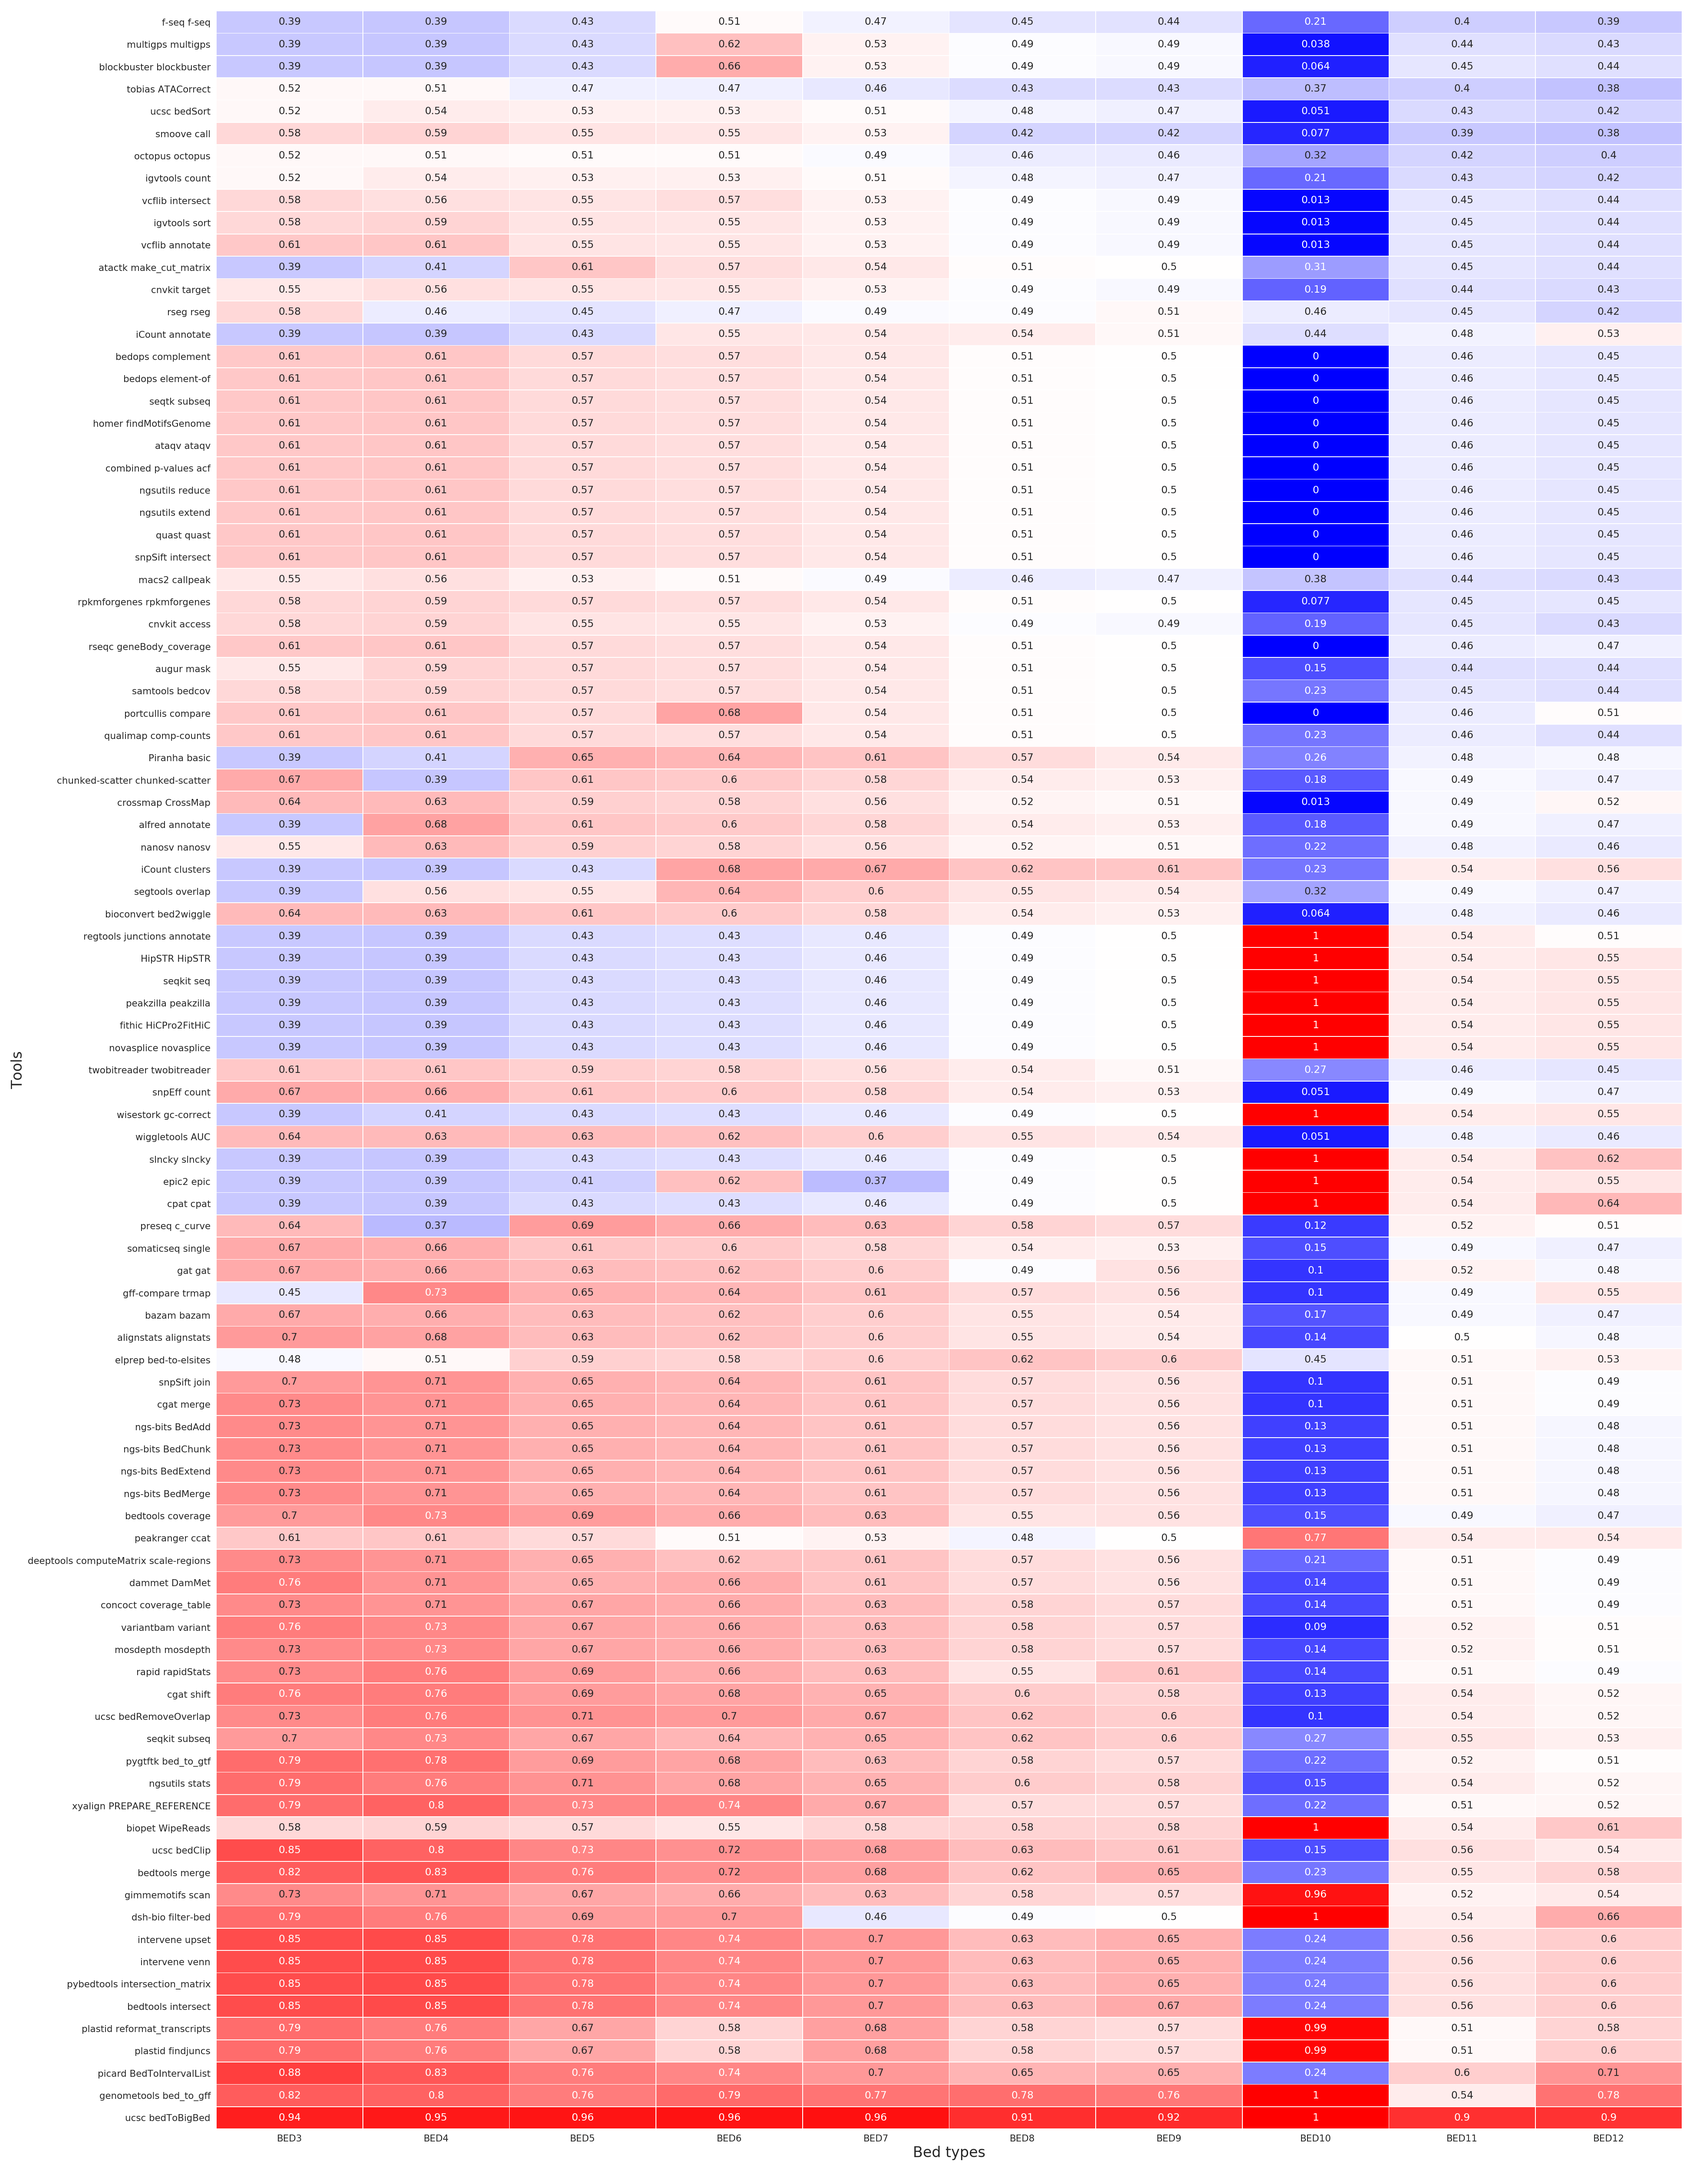
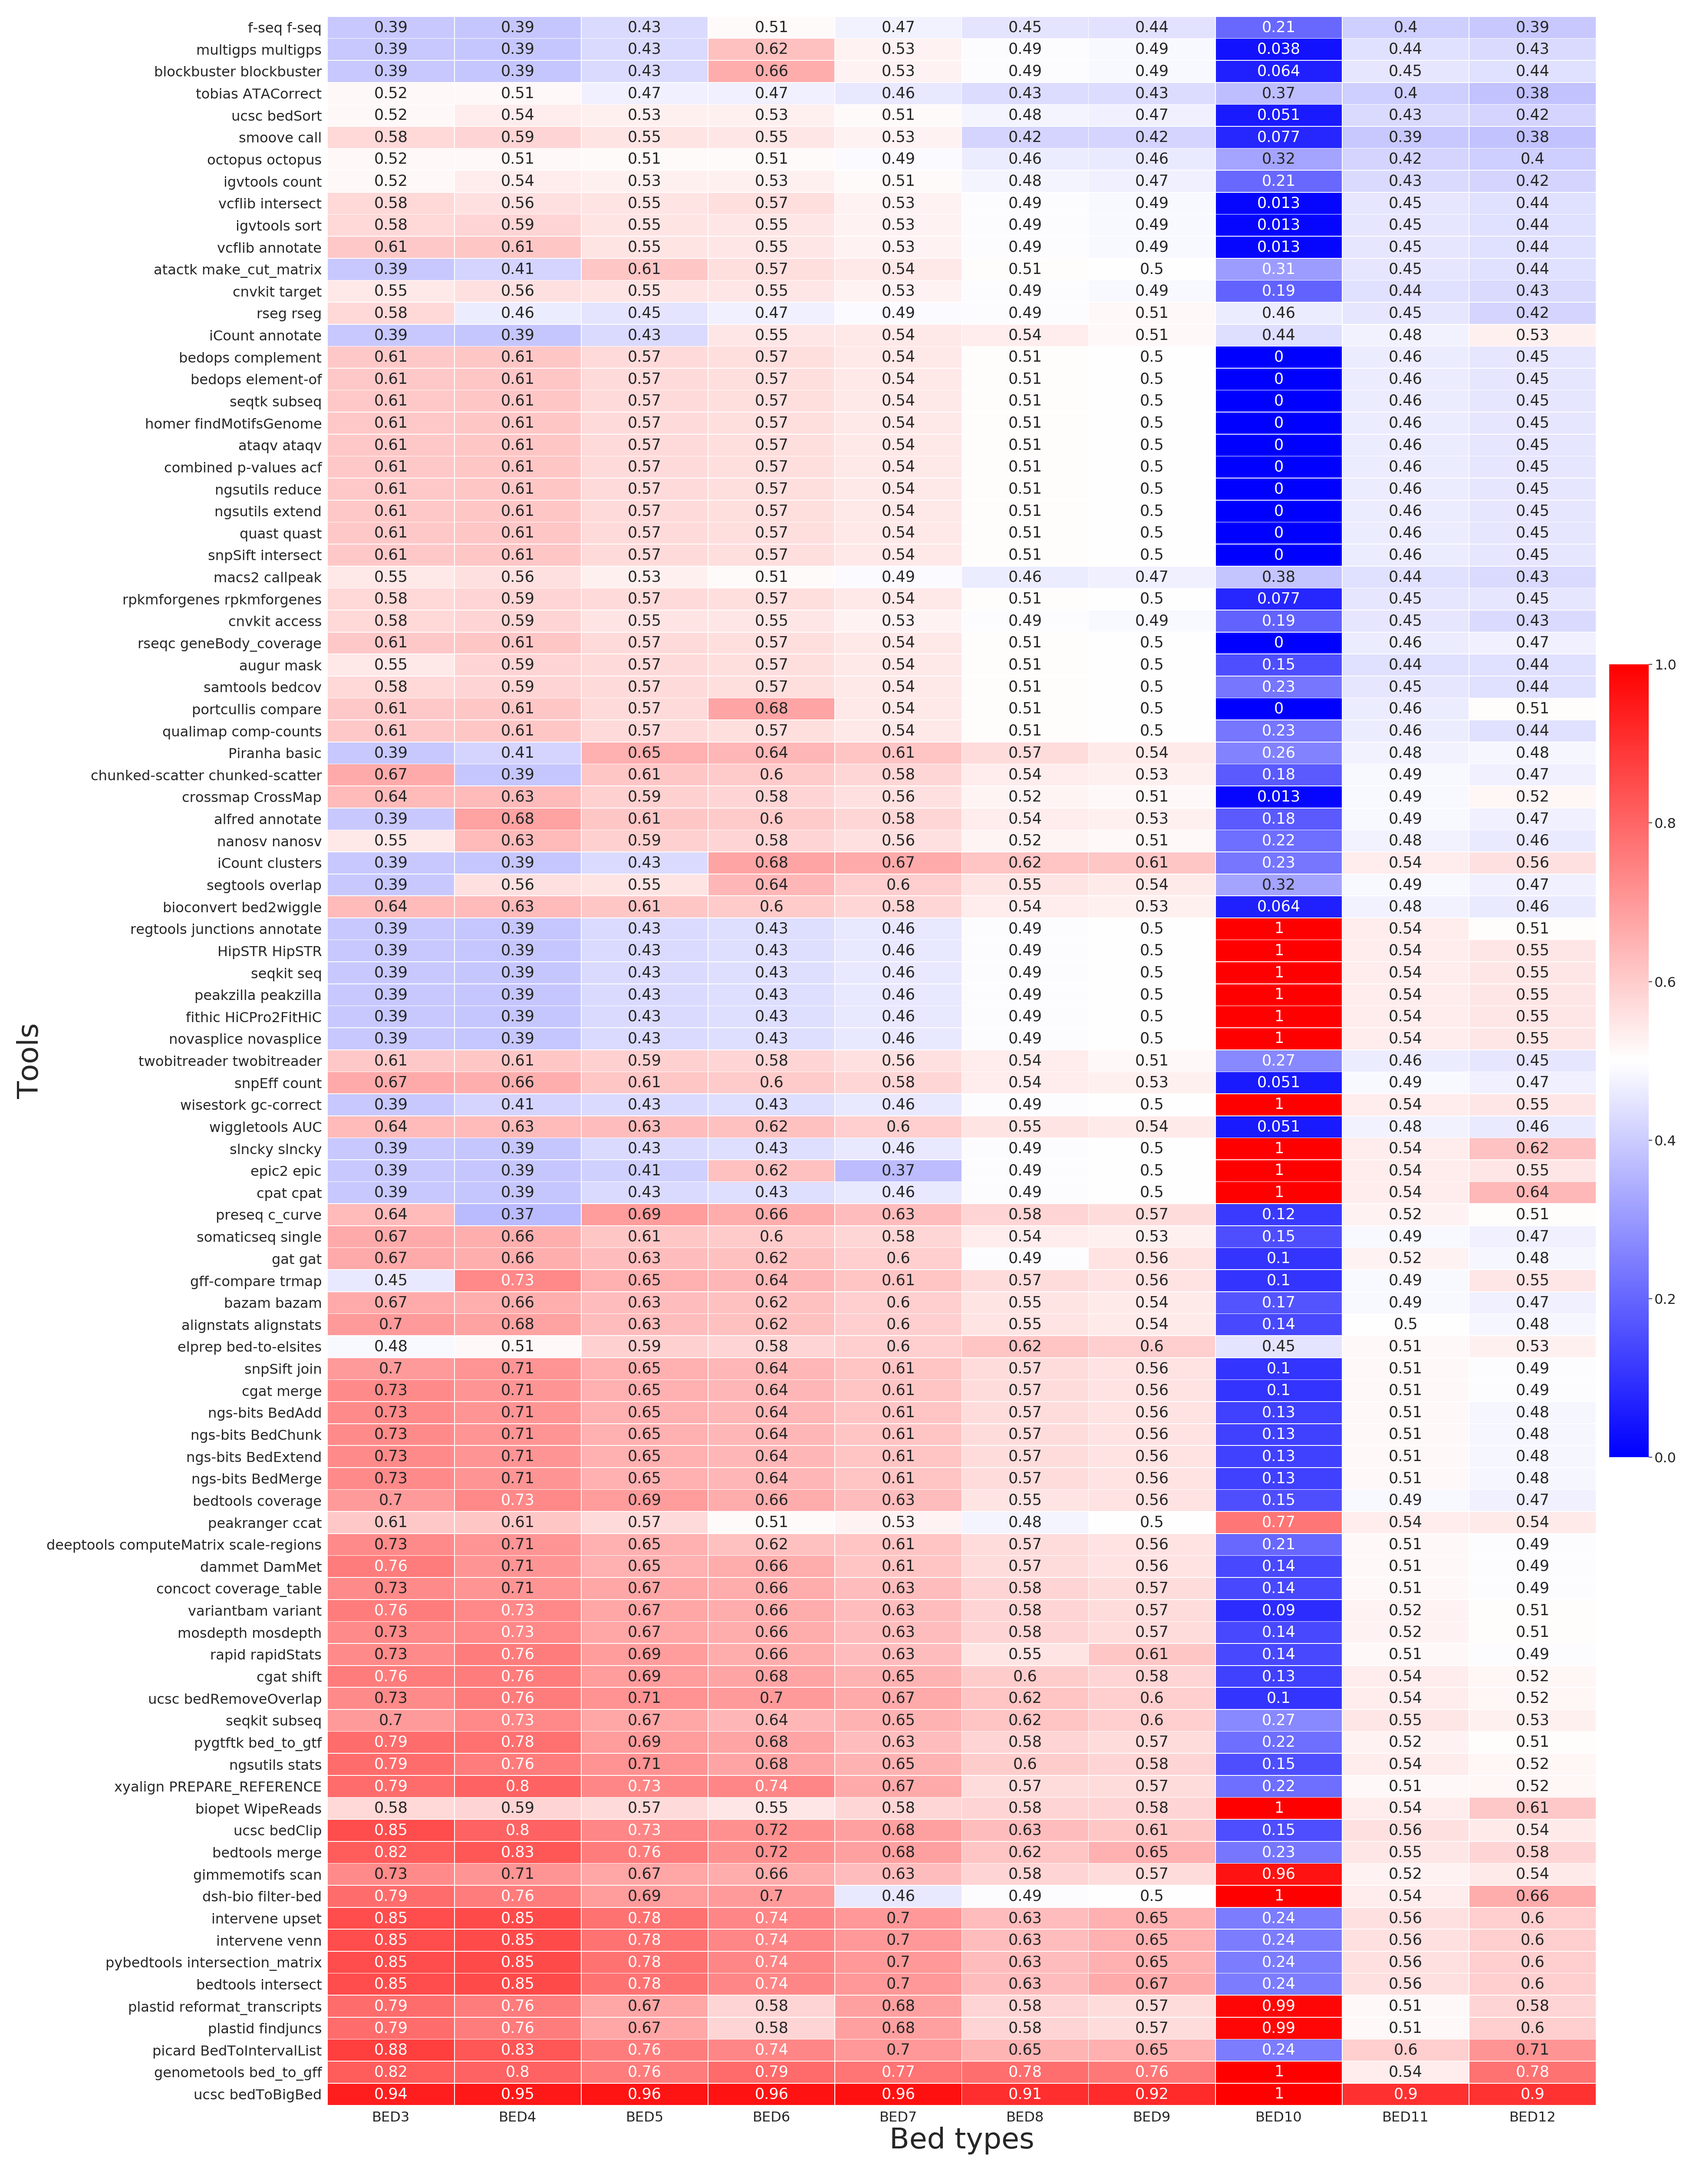
work

diff --git a/bed/summarize.py b/bed/summarize.py
@@ -10,7 +10,7 @@ import matplotlib.pyplot as plt
 
 from more_itertools import sort_together
 
-import seaborn as sns; sns.set(font_scale=2.3)
+import seaborn as sns; sns.set(font_scale=2.1)
 
 BED_NAMES = ['BED3', 'BED4', 'BED5', 'BED6', 'BED7', 'BED8', 'BED9', 'BED10',
              'BED11', 'BED12']
@@ -50,17 +50,24 @@ if __name__ == '__main__':
             for i in range(len(num_correct)):
                 # this version aggregates over the main tool, using
                 # the best performing subtool as the representative
-                name = name_list[i][:name_list[i].find(' ')]
+                # name = name_list[i][:name_list[i].find(' ')]
 
+                # if name not in bed_correctness:
+                #     bed_correctness[name] = {}
+                # if len(correct_list) in bed_correctness[name]:
+                #     bed_correctness[name][len(correct_list[i])] = \
+                #         max(bed_correctness[name][len(correct_list[i])],
+                #             num_correct[i] / (len(correct_list[i]) - 1))
+                # else:
+                #     bed_correctness[name][len(correct_list[i])] = \
+                #         num_correct[i] / (len(correct_list[i]) - 1)
+
+                # This version counts each subtool separatly
+                name = name_list[i]
                 if name not in bed_correctness:
                     bed_correctness[name] = {}
-                if len(correct_list) in bed_correctness[name]:
-                    bed_correctness[name][len(correct_list[i])] = \
-                        max(bed_correctness[name][len(correct_list[i])],
-                            num_correct[i] / (len(correct_list[i]) - 1))
-                else:
-                    bed_correctness[name][len(correct_list[i])] = \
-                        num_correct[i] / (len(correct_list[i]) - 1)
+                bed_correctness[name][len(correct_list[i])] = \
+                    num_correct[i] / (len(correct_list[i]) - 1)
 
     programs = list(bed_correctness.keys())
     lengths = sorted(list(bed_correctness[programs[0]].keys()))

diff --git a/bed/run_all.py b/bed/run_all.py
@@ -61,7 +61,7 @@ def run_all(bed_type, output_file, specific_tool=None, verbose=False,
     for tool in tool_list:
         for program in list(tool.keys()):
             # If <specific_tool> is defined, then skip all other tools
-            if specific_tool is not None and program != specific_tool:
+            if specific_tool is not None and program == specific_tool:
                 continue
 
             # Skip the tool if the wrong Python version is present
